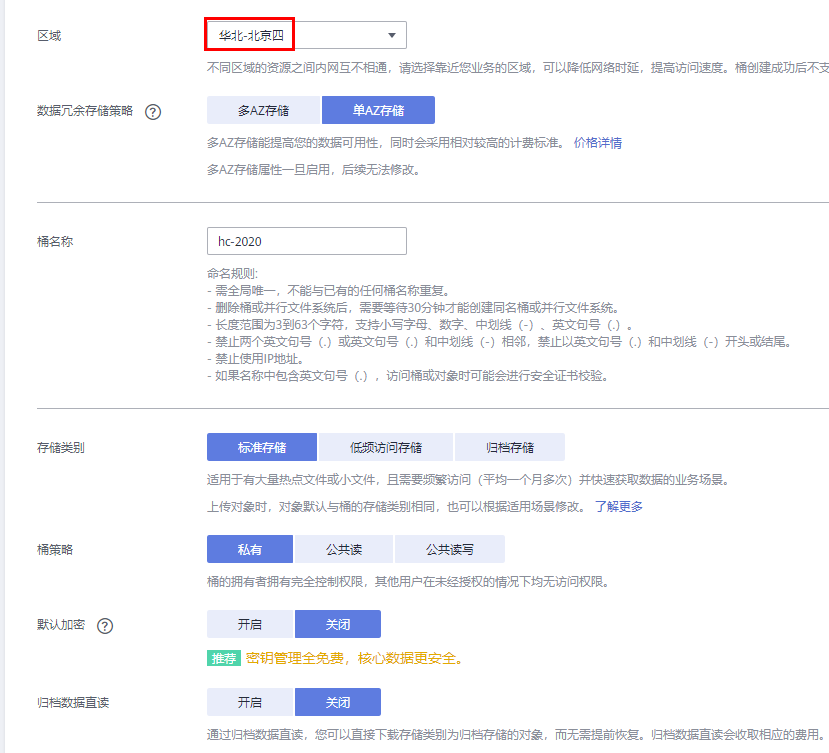
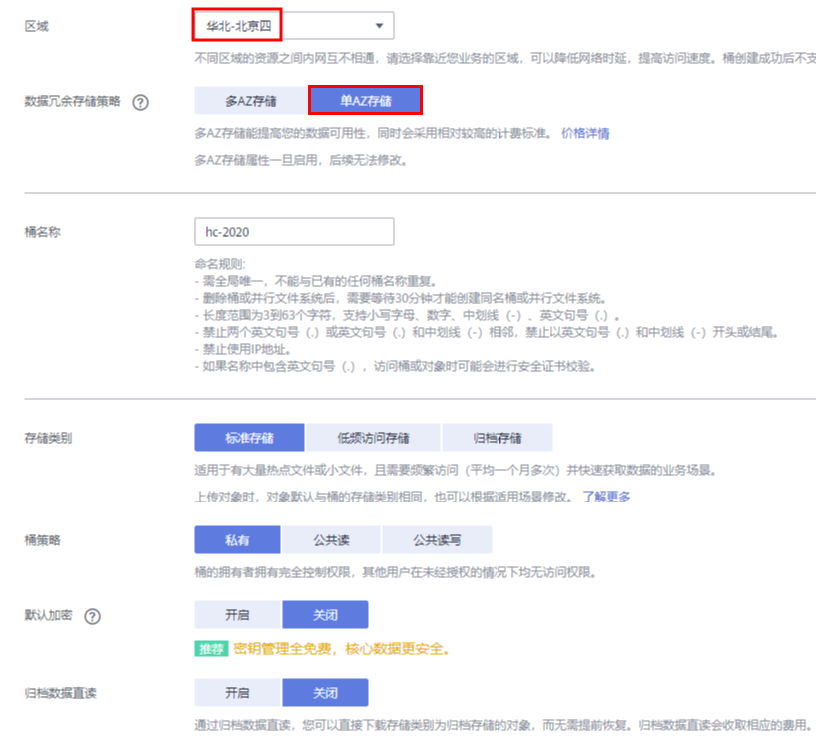
修改 ModelArts准备工作

diff --git a/docs/ModelArts准备工作/readme.md b/docs/ModelArts准备工作/readme.md
@@ -3,49 +3,39 @@
 
 ## 1. 注册华为云账号
 
-### 1.1 注册账号
+参考[此文档](https://support.huaweicloud.com/prepare-modelarts/modelarts_08_0001.html)，注册华为云账号。
 
-参考[此链接](https://support.huaweicloud.com/prepare-modelarts/modelarts_08_0001.html)，注册华为云账号。
+## 2.  完成ModelArts全局配置
 
-### 1.2 实名认证
+参考[此文档](https://support.huaweicloud.com/prepare-modelarts/modelarts_08_0007.html)，完成ModelArts全局配置。
 
-参考[此链接](https://support.huaweicloud.com/usermanual-account/zh-cn_topic_0133456714.html)，完成实名认证，推荐使用扫码认证。
+## 3. OBS相关操作
 
-### 1.3 生成访问密钥并完成ModelArts全局配置
+### 3.1 创建OBS桶
 
-参考[此文档](https://support.huaweicloud.com/prepare-modelarts/modelarts_08_0008.html)，生成访问密钥，并完成ModelArts全局配置。
-
-**注意：访问密钥文件请妥善保存，使用OBS客户端会用到。**
-
-## 2. OBS操作
-
-### 2.1 创建OBS桶
-
-**OBS**，即**Object Storage Service**，对象存储服务，是华为云提供云上数据储存的服务。在使用ModelArts之前您需要创建一个OBS桶。 
+**OBS**，即**Object Storage Service**，对象存储服务，是华为云提供云上数据储存的服务，在使用ModelArts之前您需要创建一个OBS桶。 
 
 登录[OBS管理控制台](https://storage.huaweicloud.com/obs/#/obs/manager/buckets)， 单击页面右上角"**创建桶**"按钮。
 
-系统弹出如下图所示的对话框，选择"区域"为"华北-北京四"，输入自定义的桶名称（该桶名需全局唯一），其他选项保持默认即可，最后点击页面下方"立即创建"按钮。 
+系统弹出如下图所示的对话框，选择"区域"为"华北-北京四"，输入自定义的桶名称（该桶名需全局唯一），数据冗余存储策略改为“单AZ存储”，  其他选项保持默认即可，最后点击页面下方"立即创建"按钮。 
 
 ![create_obs](./img/create_obs.PNG)
 
-### 2.2 OBS客户端安装
+### 3.2 OBS客户端安装
 
-对象存储服务中提供了两种工具用于访问管理OBS，供用户使用。OBS Browser+是一款用于访问和管理对象存储服务的图形化工具，obsutil是一款用于访问管理OBS的命令行工具。
+对象存储服务中提供了两种工具用于访问管理OBS，供用户使用。OBS Browser+是一款用于访问和管理对象存储服务的图形化工具，obsutil是一款用于访问管理OBS的命令行工具，**如果是首次使用OBS客户端，建议先使用OBS Browser+，可以更快上手。**
 
 ![create_obs](./img/select_tools.png)
 
-当数据集比较大时，使用OBS Browser+上传和删除数据会比较耗时，使用obsutil工具可以实现快速上传和删除文件等操作。
 
-#### 2.2.1 使用OBS Browser+
+
+#### 3.2.1 使用OBS Browser+
 
 #### （1）安装并登录OBS Browser+
 
-点击[此链接](https://support.huaweicloud.com/browsertg-obs/obs_03_1003.html)，根据操作系统版本下载相应版本的OBS Browser+，并点击`.exe`文件进行安装。
+点击[此链接](https://support.huaweicloud.com/browsertg-obs/obs_03_1003.html)，根据操作系统版本下载相应版本的OBS Browser+，解压后，点击`exe`文件进行安装。
 
-参考[此文档](https://support.huaweicloud.com/browsertg-obs/obs_03_1004.html)，使用访问密钥登录OBS Browser+。
-
-**注意：AK和SK从1.3节下载的csv格式的访问秘钥文件中获取。**
+参考[此文档](https://support.huaweicloud.com/browsertg-obs/obs_03_1004.html)，使用**AK方式**登录OBS Browser+。
 
 #### （2）新建OBS文件夹的方法
 
@@ -55,11 +45,13 @@
 
 #### （3）上传数据至OBS的方法
 
-使用OBS客户端可以上传文件或者文件夹至OBS。打开OBS Browser+，点击进入一个OBS桶，然后点击“上传”按钮，上传本地文件夹或者文件至OBS桶。
+使用OBS客户端可以上传文件或者文件夹至OBS。打开OBS Browser+，点击进入一个OBS桶，然后点击“上传”按钮，即可上传本地文件夹或者文件至OBS桶。
 
 ![OBS](./img/上传文件夹.png)
 
-### 2.2.2 使用obsutil（可跳过）
+
+
+### 3.2.2 使用obsutil（可选步骤）
 
 #### （1）安装并配置obsutil
 
@@ -97,4 +89,3 @@ obsutil cp local_file_url/dataset_file obs://bucket_name/folder -f
 obsutil cp local_folder_url/dataset obs://bucket_name/folder -r -f
 ```
 
-### 
